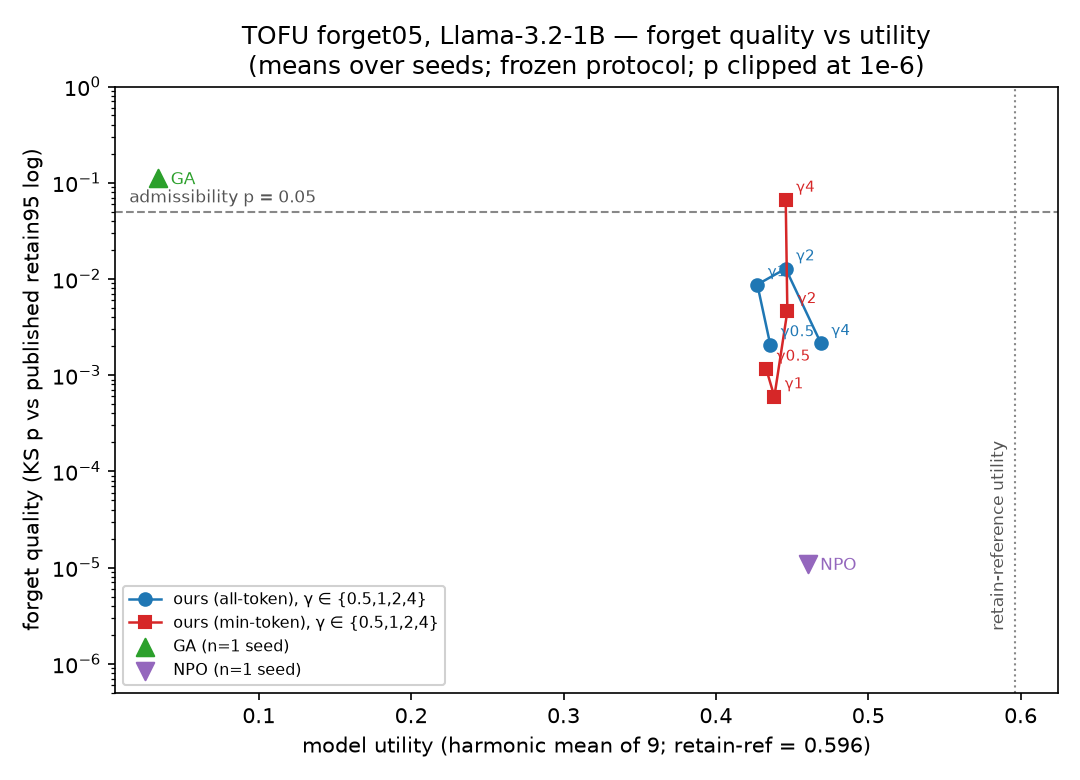
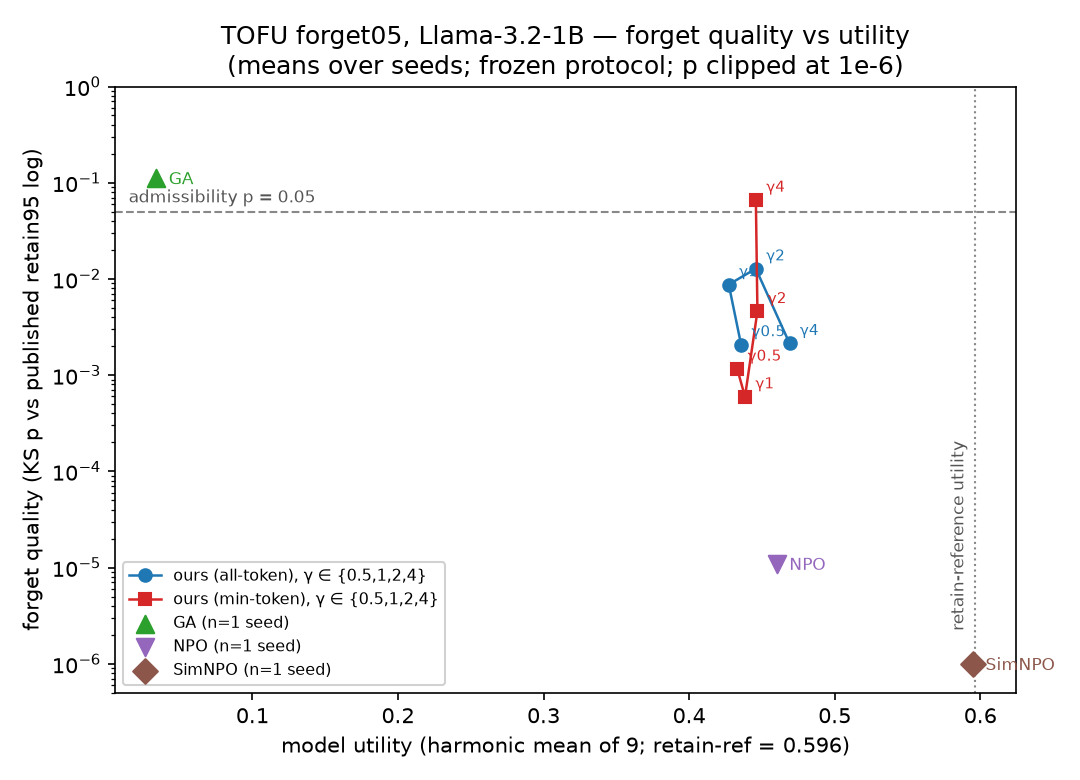
SimNPO s0: near-no-op at published config (leak 0.734, util = full model)
Recorded as-is per prereg: baselines run at published configs; retuning would
be our tuning masquerading as their method. LOCAL's t17 caveat goes in the
paper text.

diff --git a/reports/remote/LOG.md b/reports/remote/LOG.md
@@ -1143,3 +1143,22 @@ functional** — GA achieves FQ by destruction, NPO/... achieve utility without
 distributional indistinguishability. Exactly the frontier plot's job.
 
 (Seed-0 only for baselines so far; 10 cells remain.)
+
+### SimNPO seed-0: near-no-op at their published config
+
+    fq 0.0 | leak 0.7341 (floor 0.395 -- still reciting) | util 0.595 (= full)
+    forget prob 0.848 vs full model's 0.895; mean TR 0.50 vs full's 0.503
+
+At open-unlearning's shipped SimNPO config (beta 4.5, npo_coeff gamma=0.125,
+retain NLL) the model is essentially unchanged after 10 epochs. Training loss
+plateaued ~1.0. Their npo_coeff of 0.125 scales the forget term to 1/8th --
+combined with lr 1e-5 this is plausibly just too gentle for Llama-1B/forget05.
+
+Recorded as-is per the prereg (baselines run at published configs, full stop):
+the honest row is "SimNPO at its published TOFU config does not unlearn this
+model". Same reporting class as LOCAL's RMU-at-WMDP-defaults finding. No
+retuning on our side -- that would be *our* tuning masquerading as their
+method. LOCAL's t17 caveat ("check their tuned config before drawing
+conclusions") applies verbatim and goes in the paper text.
+
+RMU seed-0 training.

diff --git a/reports/remote/RESULTS.md b/reports/remote/RESULTS.md
@@ -30,6 +30,7 @@ steps: all-token 100, min-token 450 (per-scope calibration, amendment 3)
 |---|---|---|---|---|
 | gradascent | 1 | 0.1123 ± 0.0000 **✓** | 0.2071 ± 0.0000 | 0.0340 ± 0.0000 |
 | npo | 1 | 0.0000 ± 0.0000 | 0.3153 ± 0.0000 | 0.4602 ± 0.0000 |
+| simnpo | 1 | 0.0000 ± 0.0000 | 0.7341 ± 0.0000 | 0.5950 ± 0.0000 |
 
 ## Notes
 
